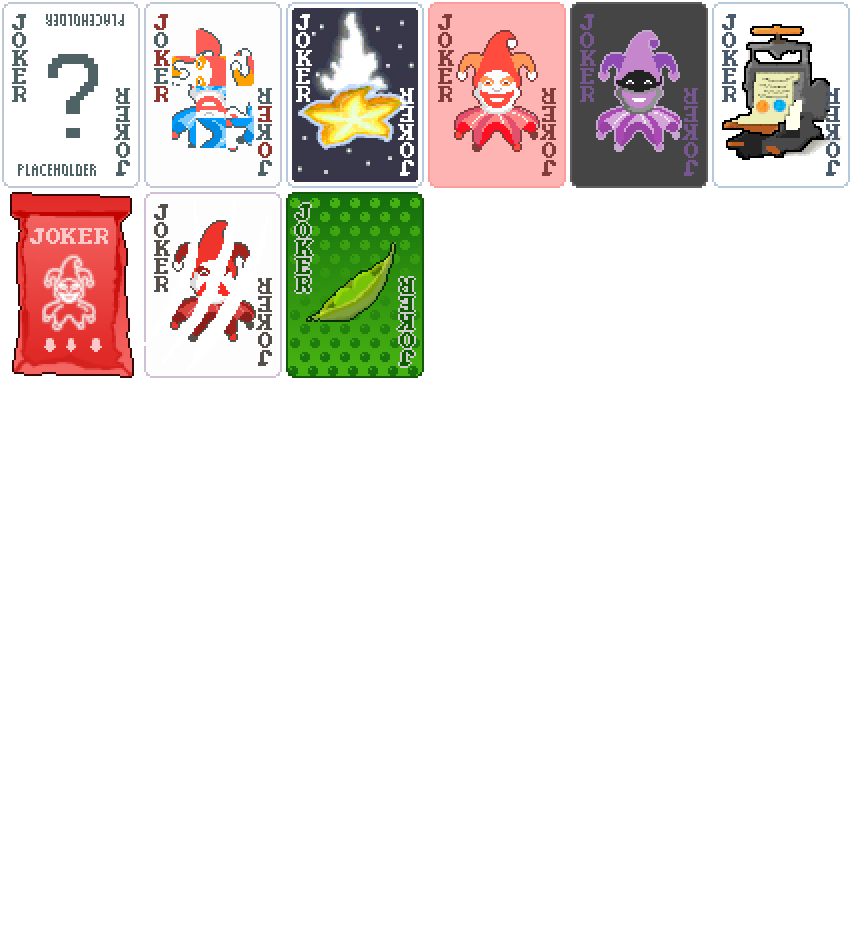
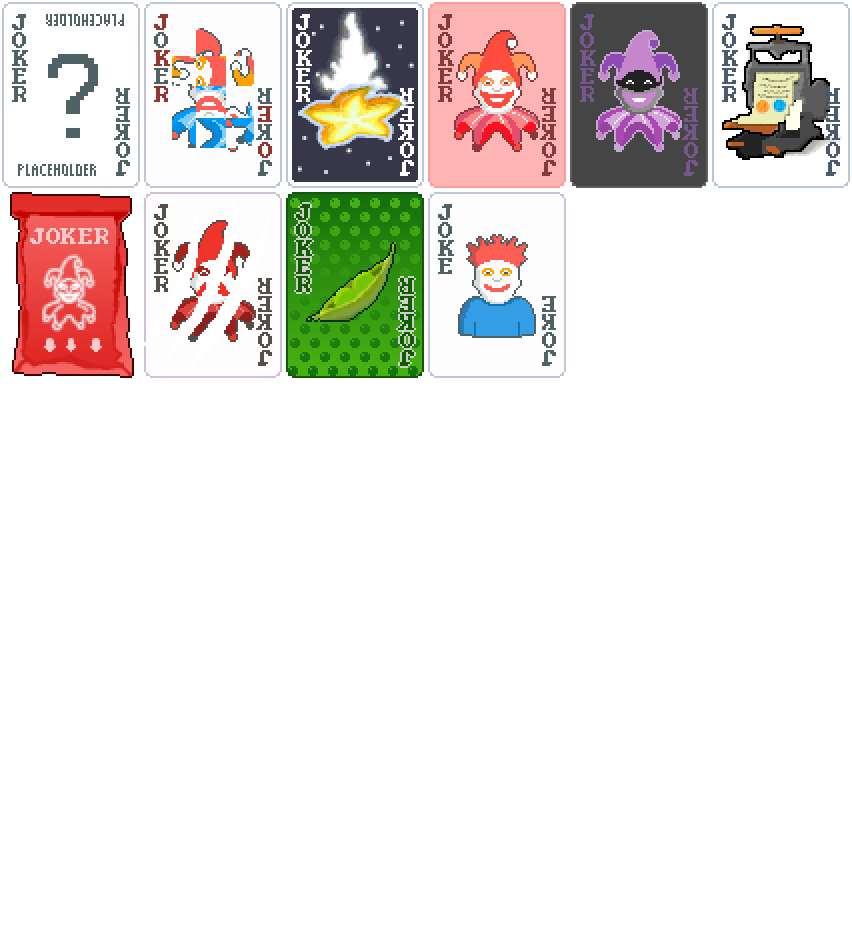
v0.2.1 Possible seal bug fix, art

Changed region(s): [[0.4883, 0.2137, 0.6714, 0.3968]]

diff --git a/README.md b/README.md
@@ -29,7 +29,7 @@ Currently, <b>Emporium</b> adds the following to <b>Balatro</b>:
     <li><b>Spirited Joker</b>: +10 Mult per Spectral Card used while this Joker is held</li>
     <li><b>Printing Press</b>: Sell this card to create a free Emboss Tag</li>
     <li><b>Peapod</b>: If poker hand is a Three of a Kind, destroy this Joker and create 3 free Double Tags</li>
-    <li><b>Peapod</b>: This Joker gives an extra $1 for every hand remaining</li>
+    <li><b>Opulent Joker</b>: This Joker gives an extra $1 for every hand remaining</li>
     <li><b>The Triad</b>: This Joker gives X1.5 Mult for every multiple of 3 scored</li>
     <li><b>Wishing Star</b>: This Joker gains +5 Mult and increases payout by $1 if a Lucky card is played</li>
     <li><b>Pawn Shop</b>: Played Steel cards earn $1 and give X1.5 Mult when scored</li>
